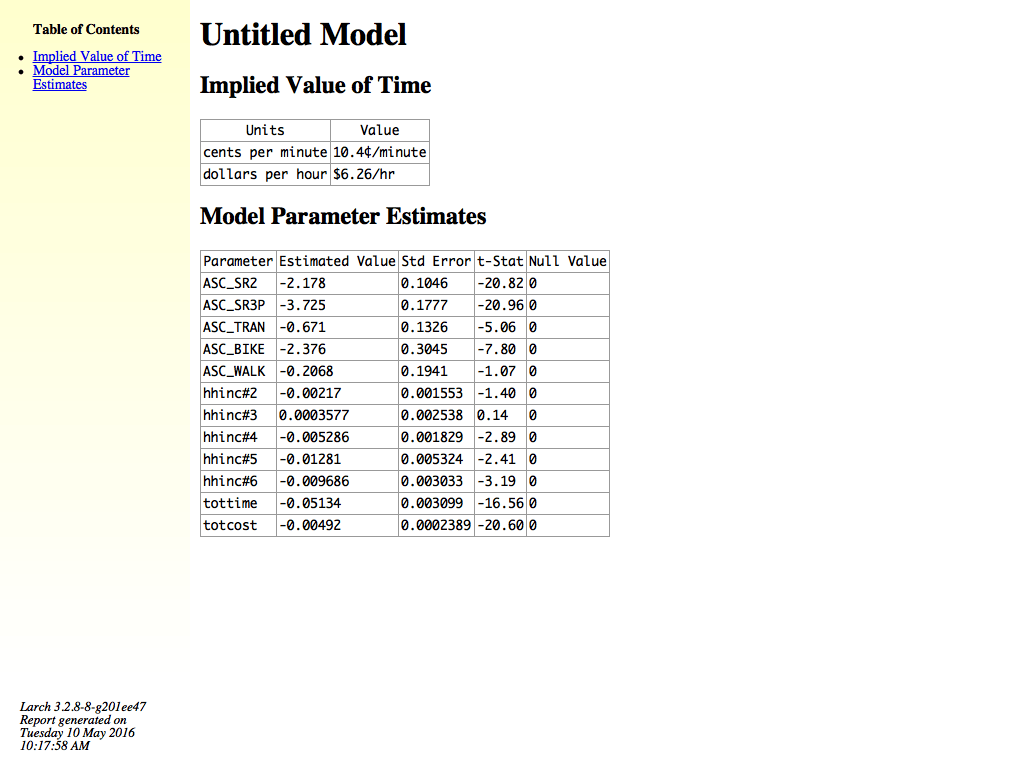
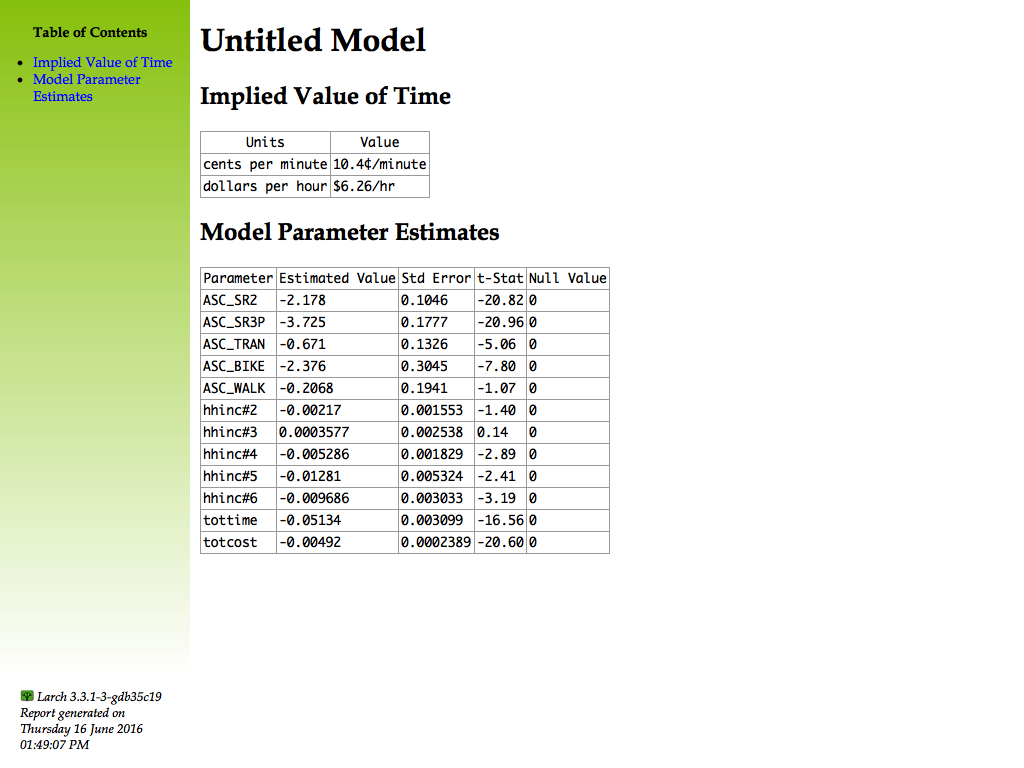
fix error in DT idco import

Changed region(s): [[0.0, 0.0, 0.5938, 0.7812], [0.0, 0.9062, 0.1562, 1.0]]

diff --git a/py/dt.py b/py/dt.py
@@ -654,9 +654,9 @@ class DT(Fountain):
 					inherit = False
 				if inherit:
 					if oldseq in self.h5top.screen._v_attrs:
-						newseq = self.h5top.screen._v_attrs[oldseq] + newseq[1:]
+						newseq = list(self.h5top.screen._v_attrs[oldseq]) + list(newseq[1:])
 					else:
-						newseq = newseq[1:]
+						newseq = list(newseq[1:])
 				self.h5top.screen._v_attrs[oldseq] = newseq
 				return newseq
 			else:
@@ -680,7 +680,7 @@ class DT(Fountain):
 				exclusions |= self.array_idca(expr, screen="None", dtype=bool)[:,altslot,:].any(1)
 		if exclude_unavail:
 			exclusions |= (~(self.array_avail().any(1)))
-		self.h5top.screen[:] = ~exclusions
+		self.h5top.screen[:] = ~exclusions.squeeze()
 
 	def exclude_idco(self, expr):
 		"""
@@ -696,6 +696,8 @@ class DT(Fountain):
 			set to bool. Any cases that evaluate as positive are excluded from
 			the dataset when provisioning.
 		"""
+		if 'screen' not in self.h5top:
+			self.set_screen()
 		self.rescreen(exclude_idco=['+', expr])
 
 	def exclude_idca(self, altids, expr):
@@ -715,6 +717,8 @@ class DT(Fountain):
 			evaluates as positive for any of the listed altids are excluded from
 			the dataset when provisioning.
 		"""
+		if 'screen' not in self.h5top:
+			self.set_screen()
 		self.rescreen(exclude_idca=['+', (altids, expr)])
 
 	def provision(self, needs, **kwargs):
@@ -828,10 +832,10 @@ class DT(Fountain):
 					self.multi_check_co(b)
 
 	def variables_ca(self):
-		return tuple(i for i in self.h5idca._v_children)
+		return sorted(tuple(i for i in self.h5idca._v_children))
 
 	def variables_co(self):
-		return tuple(i for i in self.h5idco._v_children)
+		return sorted(tuple(i for i in self.h5idco._v_children))
 
 
 	def import_db(self, db, ignore_ca=('caseid','altid'), ignore_co=('caseid')):
@@ -973,6 +977,10 @@ class DT(Fountain):
 					raise RuntimeError("cannot open HDF5 at {}".format(filename))
 			else:
 				break
+
+		if dataset.upper() == "SWISSMETRO":
+			from .util.temporaryfile import TemporaryGzipInflation
+			return DT(TemporaryGzipInflation(os.path.join(DT.ExampleDirectory(),"swissmetro.h5.gz")))
 
 		if dataset.upper() in example_h5files:
 
@@ -1125,7 +1133,8 @@ class DT(Fountain):
 				choices = self.array_idco(choice)
 				choices = numpy.digitize(choices, self._alternative_codes(), right=True)
 				ch_array = numpy.zeros((self.nCases(), len(alts)), dtype=numpy.float64)
-				ch_array[:,choices] = 1
+				#ch_array[:,choices] = 1 #ERROR
+				ch_array[numpy.arange(ch_array.shape[0]),choices.squeeze()] = 1
 				h5ch = self.h5f.create_carray(self.h5idca, '_choice_', obj=ch_array, filters=h5filters)
 			else:
 				raise
@@ -1381,7 +1390,7 @@ class DT(Fountain):
 		for idca_child in self.h5idca._v_children.keys():
 			if isinstance_(self.h5idca._v_children[idca_child], _tb.group.Group):
 				if '_index_' not in self.h5idca._v_children[idca_child] or '_values_' not in self.h5idca._v_children[idca_child]:
-					if idca_child not in ('_avail_','_choice_') or 'stack' not in self.h5idca._v_children[idca_child]._v_attrs:
+					if 'stack' not in self.h5idca._v_children[idca_child]._v_attrs:
 						idca_child_incorrect_sized[idca_child] = 'invalid group'
 				else:
 					if self.h5idca._v_children[idca_child]._values_.shape[1] != altids_node_len:
@@ -1399,7 +1408,7 @@ class DT(Fountain):
 					"with the same length as the length of `caseids` and "
 					"an integer dtype, and a 2-dimensional `_values_` with the second dimension the same as the length "
 					"of `altids`, such that _values_[_index_] reconstructs the desired "
-					"data array.",
+					"data array, or (3) a group node with a `stack` attribute.",
 					idca_child_incorrect_sized)
 
 		subcategory('Alternative Availability')
@@ -2048,6 +2057,8 @@ class DT(Fountain):
 				for anum,aname in self.alternatives():
 					alo.write( "\n{2}(node_{0}) = {1}\n".format(aname.replace(" ","_"), repackage(stack[anum]), var_) )
 
+		# Exclusions
+		
 
 		return alo.getvalue()
 
@@ -2102,8 +2113,8 @@ class DT_idco_stack_manager:
 			self.parent.h5f.create_group(self.parent.h5idca, self.stacktype)
 		except _tb.exceptions.NodeError:
 			pass
-		else:
-			self.parent.h5idca._v_children[self.stacktype]._v_attrs.stack = [0]*self.parent.nAlts()
+		if 'stack' not in self.parent.h5idca._v_children[self.stacktype]._v_attrs:
+			self.parent.h5idca._v_children[self.stacktype]._v_attrs.stack = ["0"]*self.parent.nAlts()
 
 
 	def __call__(self, *cols, varname=None):
@@ -2166,10 +2177,15 @@ class DT_idco_stack_manager:
 			raise KeyError
 
 	def __setitem__(self, key, value):
-		self._make_zeros()
 		slotarray = numpy.where(self.parent._alternative_codes()==key)[0]
 		if len(slotarray) == 1:
-			self.parent.h5idca._v_children[self.stacktype]._v_attrs.stack[slotarray[0]] = value
+			if self.stacktype not in self.parent.h5idca._v_children:
+				self._make_zeros()
+			if 'stack' not in self.parent.h5idca._v_children[self.stacktype]._v_attrs:
+				self._make_zeros()
+			tempobj = self.parent.h5idca._v_children[self.stacktype]._v_attrs.stack
+			tempobj[slotarray[0]] = value
+			self.parent.h5idca._v_children[self.stacktype]._v_attrs.stack = tempobj
 		else:
 			raise KeyError
 

diff --git a/py/util/alogit.py b/py/util/alogit.py
@@ -1,0 +1,69 @@
+import ast
+import operator as op
+
+# supported operators
+operator_strs = {ast.Add: ' + ', ast.Sub: ' - ', ast.Mult: ' * ',
+             ast.Div: ' / ', ast.Pow: ' ** ', ast.BitXor: ' ^ ',
+             ast.USub: ' -'}
+
+
+
+def _repackage_comparison(a,op,b):
+	"""
+	Repackages certain operators for use in Alogit.
+	"""
+	if isinstance(op,ast.Eq):
+		return "ifeq({},{})".format(repackage(a),repackage(b))
+	elif isinstance(op,ast.Gt):
+		return "ifgt({},{})".format(repackage(a),repackage(b))
+	elif isinstance(op,ast.Lt):
+		return "iflt({},{})".format(repackage(a),repackage(b))
+	elif isinstance(op,ast.GtE):
+		return "ifge({},{})".format(repackage(a),repackage(b))
+	elif isinstance(op,ast.LtE):
+		return "ifle({},{})".format(repackage(a),repackage(b))
+	elif isinstance(op,ast.NotEq):
+		return "ifne({},{})".format(repackage(a),repackage(b))
+	else:
+		global errop
+		errop = op
+		raise TypeError(op)
+
+
+
+def repackage(expr):
+	"""
+	Repackages expressions for use in Alogit.
+	"""
+	if isinstance(expr, str):
+		node = ast.parse(expr, mode='eval').body
+	else:
+		node = expr
+	if isinstance(node, ast.Num): # <number>
+		return "{!s}".format(node.n)
+	elif isinstance(node, ast.BinOp): # <left> <operator> <right>
+		return "({}{}{})".format(repackage(node.left), operator_strs[type(node.op)], repackage(node.right))
+	elif isinstance(node, ast.UnaryOp): # <operator> <operand> e.g., -1
+		return "({}{})".format(operator_strs[type(node.op)], repackage(node.operand))
+	elif isinstance(node, ast.Name): # <operator> <operand> e.g., -1
+		return "{!s}".format(node.id)
+	elif isinstance(node, ast.Compare): # <operator> <operand> e.g., -1
+		left = node.left
+		right = node.comparators[0]
+		op = node.ops[0]
+		s = "("
+		s += _repackage_comparison(left,op,right)
+		for i in range(1,len(node.ops)):
+			s += "*"
+			left = right
+			op = node.ops[i]
+			right = node.comparators[i]
+			s += _repackage_comparison(left,op,right)
+		s += ")"
+		return s
+	else:
+		global err
+		err = node
+		raise TypeError(node)
+	
+	

diff --git a/py/util/xhtml.py b/py/util/xhtml.py
@@ -173,8 +173,8 @@ class XHTML():
 		table {border-collapse:collapse;}
 		table, th, td {border: 1px solid #999999; padding:2px; font-family:monospace;}
 		body { margin-left: 200px; }
-		.table_of_contents_frame { width: 190px; position: fixed; margin-left: -200px; top:0; padding-top:10px;}
-		.table_of_contents { width: 190px; position: fixed; margin-left: -200px; font-size:85%; }
+		.table_of_contents_frame { width: 187px; position: fixed; margin-left: -200px; top:0; padding-top:10px;}
+		.table_of_contents { width: 187px; position: fixed; margin-left: -200px; font-size:85%; }
 		.table_of_contents_head { font-weight:700; padding-left:25px }
 		.table_of_contents ul { padding-left:25px; }
 		.table_of_contents ul ul { font-size:75%; padding-left:15px; }
@@ -258,8 +258,8 @@ class XHTML():
 		.table_of_contents a:visited { text-decoration: none; }
 		.table_of_contents a:hover { text-decoration: underline; }
 		.table_of_contents a:active { text-decoration: underline; }
-		.table_of_contents_head { font-weight:700; padding-left:25px }
-		.table_of_contents ul { padding-left:25px; }
+		.table_of_contents_head { font-weight:700; padding-left:20px }
+		.table_of_contents ul { padding-left:20px; }
 		.table_of_contents ul ul { font-size:75%; padding-left:15px; }
 		::-webkit-scrollbar {
 			-webkit-appearance: none;

diff --git a/py/test/test_data.py b/py/test/test_data.py
@@ -412,14 +412,14 @@ class TestData1(unittest.TestCase):
 		m.df = dd
 		m.provision()
 		x = [-0.7012268762617896, -0.15465520761303447, -0.01277806274978315, -0.01083774419411773]
-		self.assertAlmostEqual(  -25984.072734772 , m.loglike(x,cached=False))
+		self.assertAlmostEqual(  -5331.252007380466 , m.loglike(x,cached=False))
 		self.assertEqual(  6768 , m.nCases())
 		dd.rescreen( exclude_idco=['+', 'caseid<=10'] )
 		m = Model.Example(101)
 		m.df = dd
 		m.provision()
 		x = [-0.7012268762617896, -0.15465520761303447, -0.01277806274978315, -0.01083774419411773]
-		self.assertAlmostEqual(  -25948.308855204876 , m.loglike(x,cached=False))
+		self.assertAlmostEqual(  -5324.7532567301105 , m.loglike(x,cached=False))
 		self.assertEqual(  6758 , m.nCases())
 
 

diff --git a/setup.py b/setup.py
@@ -244,7 +244,7 @@ else:
 		  package_dir = {'larch': file_at('py'), 'larch.examples.doc': file_at('doc/example')},
 		  packages=['larch', 'larch.examples','larch.examples.doc', 'larch.test', 'larch.version', 'larch.util', 'larch.model_reporter', 'larch.util.optimize',],
 		  ext_modules=[core, apsw, ],
-		  package_data={'larch':['data_warehouse/*.sqlite', 'data_warehouse/*.csv', 'data_warehouse/*.csv.gz', 'data_warehouse/*.h5'], 'larch.examples.doc':['*.rst']},
+		  package_data={'larch':['data_warehouse/*.sqlite', 'data_warehouse/*.csv', 'data_warehouse/*.csv.gz', 'data_warehouse/*.h5', 'data_warehouse/*.h5.gz'], 'larch.examples.doc':['*.rst']},
 		  data_files=local_data_files,
 		  install_requires=[
 							"numpy >= 1.11",

diff --git a/py/util/temporaryfile.py b/py/util/temporaryfile.py
@@ -79,3 +79,13 @@ def TemporaryHtml(style=None, *, nohead=False, mode='wb+', content=None, **taghe
 		t.write(content)
 		t.view()
 	return t
+
+
+def TemporaryGzipInflation(gzfile):
+	t = TemporaryFile(mode='wb')
+	import gzip
+	with gzip.open(gzfile, 'rb') as previewfile:
+		t.write(previewfile.read())
+	return t.name
+
+

diff --git a/doc/example/100_import.rst b/doc/example/100_import.rst
@@ -1,0 +1,127 @@
+.. currentmodule:: larch
+
+=======================================
+100: Importing |idco| Data
+=======================================
+
+.. testsetup:: *
+
+	import larch
+	import os
+
+
+
+In this example we will import the SWISSMETRO example dataset into a :class:`DT`, starting from a csv
+text file in |idco| format.  Suppose that data file is named "swissmetro.csv" and
+is located in the current directory (use :func:`os.getcwd` to see what is the
+current directory).
+
+
+.. testcode::
+	:hide:
+
+	os.chdir(os.path.join(larch._directory_,"data_warehouse"))
+
+
+We can take a peek at the contents of the file, examining the first 10 lines:
+
+.. doctest::
+	:options: +ELLIPSIS, +NORMALIZE_WHITESPACE
+
+	>>> with open("swissmetro.csv", 'rt') as previewfile:
+	...     print(*(next(previewfile) for x in range(10)))
+	GROUP,SURVEY,SP,ID,PURPOSE,FIRST,TICKET,WHO,LUGGAGE,AGE,MALE,INCOME,GA,ORIGIN,DEST,TRAIN_AV,CAR_AV,SM_AV,TRAIN_TT,TRAIN_CO,TRAIN_HE,SM_TT,SM_CO,SM_HE,SM_SEATS,CAR_TT,CAR_CO,CHOICE
+	2,0,1,1,1,0,1,1,0,3,0,2,0,2,1,1,1,1,112,48,120,63,52,20,0,117,65,2
+	2,0,1,1,1,0,1,1,0,3,0,2,0,2,1,1,1,1,103,48,30,60,49,10,0,117,84,2
+	2,0,1,1,1,0,1,1,0,3,0,2,0,2,1,1,1,1,130,48,60,67,58,30,0,117,52,2
+	2,0,1,1,1,0,1,1,0,3,0,2,0,2,1,1,1,1,103,40,30,63,52,20,0,72,52,2
+	2,0,1,1,1,0,1,1,0,3,0,2,0,2,1,1,1,1,130,36,60,63,42,20,0,90,84,2
+	2,0,1,1,1,0,1,1,0,3,0,2,0,2,1,1,1,1,112,36,120,60,49,10,0,90,52,2
+	2,0,1,1,1,0,1,1,0,3,0,2,0,2,1,1,1,1,103,48,120,67,58,10,0,72,65,2
+	2,0,1,1,1,0,1,1,0,3,0,2,0,2,1,1,1,1,103,36,30,67,43,30,0,90,65,1
+	2,0,1,1,1,0,1,1,0,3,0,2,0,2,1,1,1,1,130,40,60,60,46,10,0,72,65,2
+
+
+The first line of the file contains column headers. After that, each line represents
+a decision maker.  The idco data isn't quite as self-explanatory as idca data can be,
+so we'll need to specify the factors that define whether an alternative is available.
+We do that here in the swissmetro_alts dict, where the keys are the alternative codes,
+and the values are tuples of (alternative name, availability expression).
+Then we can import this data easily:
+
+.. doctest::
+
+	>>> swissmetro_alts = {
+	... 	1:('Train','TRAIN_AV*(SP!=0)'),
+	... 	2:('SM','SM_AV'),
+	... 	3:('Car','CAR_AV*(SP!=0)'),
+	... }
+	>>> d = larch.DT.CSV_idco("swissmetro.csv", choice="CHOICE", alts=swissmetro_alts)
+
+We can then look at some of the attibutes of the imported data:
+
+.. doctest::
+	:options: +ELLIPSIS, +NORMALIZE_WHITESPACE
+
+	>>> d.variables_co()
+	['AGE', 'CAR_AV', 'CAR_CO', 'CAR_TT', 'CHOICE', 'DEST', 'FIRST', 'GA', 'GROUP', 'ID', 'INCOME', 'LUGGAGE', 'MALE', 'ORIGIN', 'PURPOSE', 'SM_AV', 'SM_CO', 'SM_HE', 'SM_SEATS', 'SM_TT', 'SP', 'SURVEY', 'TICKET', 'TRAIN_AV', 'TRAIN_CO', 'TRAIN_HE', 'TRAIN_TT', 'WHO']
+	>>> d.variables_ca()
+	['_avail_', '_choice_']
+	>>> d.alternative_codes()
+	(1, 2, 3)
+	>>> d.alternative_names()
+	('Train', 'SM', 'Car')
+
+
+Larch automatically created |idca| format variables for availability and choice.
+
+The swissmetro dataset, as with all Biogeme data, is only in `co` format.  But,
+in the models we want to build some of the attributes are "generic", i.e. stuff like travel time, which
+varies across alternatives, but for which we'll want to assign the same parameter
+to for each alternative (so that a minute of travel time has the same value no
+matter which alternative it is on).  So, we can create the generic `ca` format
+variables by stacking the relevant `co` variables.
+
+.. testcode::
+
+	d.stack_idco('traveltime', {1: "TRAIN_TT", 2: "SM_TT", 3: "CAR_TT"})
+	d.stack_idco('cost', {1: "TRAIN_CO*(GA==0)", 2: "SM_CO*(GA==0)", 3: "CAR_CO"})
+
+Then these stacked variables become available for :ref:`idca` uses:
+
+.. doctest::
+	:options: +ELLIPSIS, +NORMALIZE_WHITESPACE
+
+	>>> d.variables_ca()
+	['_avail_', '_choice_', 'cost', 'traveltime']
+
+The data file we've loaded includes all the rows of the dataset.
+
+.. doctest::
+	:options: +ELLIPSIS, +NORMALIZE_WHITESPACE
+
+	>>> d.nCases()
+	10728
+
+But most of the Biogeme examples employ data filtering.  This reduces the dataset
+by dropping cases where the data is invalid or which we don't want to use for
+whatever reason.  When the data is stored in a :class:`DB`, we can use a "WHERE"
+in the queries to filted the data.  In the :class:`DT`, that function is
+filled by the `screen` node.
+
+We can define a screen array either manually, or we can just add some exclusion
+factors, like this:
+
+.. doctest::
+	:options: +ELLIPSIS, +NORMALIZE_WHITESPACE
+
+	>>> d.exclude_idco("PURPOSE not in (1,3)")
+	>>> d.exclude_idco("CHOICE == 0")
+	>>> d.nCases()
+	6768
+
+Now we're ready to use our data.
+
+
+
+
